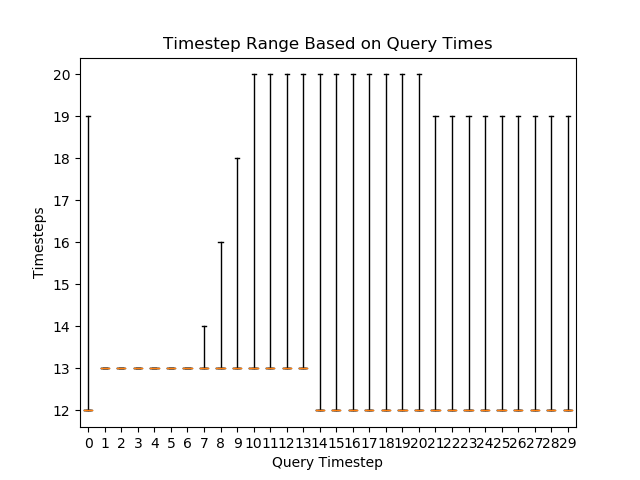
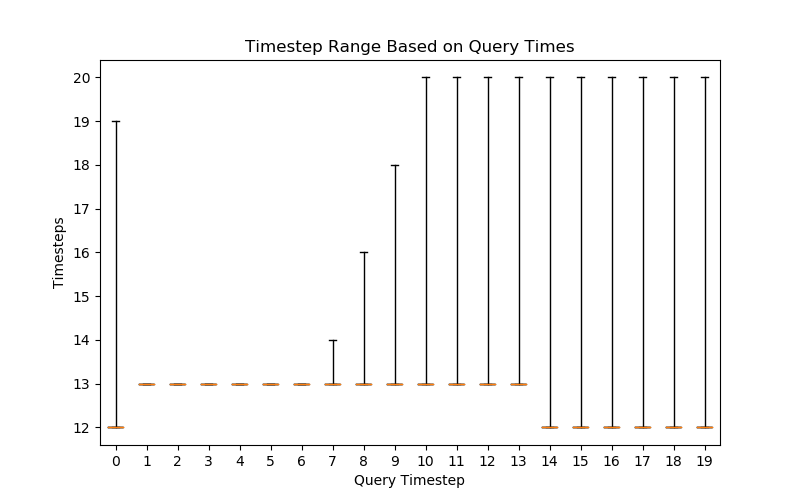
Started changing graphing code to support combining graphs

Changed region(s): [[0.0312, 0.0625, 0.9062, 1.0], [0.0938, 0.125, 0.125, 0.1875]]

diff --git a/experiment.py b/experiment.py
@@ -8,6 +8,7 @@ from itertools import permutations
 import matplotlib.pyplot as plt
 
 
+# Runs a single simulation
 def experiment(size, stn_pos, tools_pos, l_pos, a_pos, l_tp=None, l_path=[], communication_timesteps=[], debug=False):
     # DEBUG CODE
     def debug_output(timestep=None):
@@ -69,8 +70,45 @@ def experiment(size, stn_pos, tools_pos, l_pos, a_pos, l_tp=None, l_path=[], com
     return step_count - 1 # Not including last time step that agents are doing Action.WORK on station
 
 
+# Returns a permutation of all unique optimal paths from leader agent to target station
+def opt_path_perm(stn_pos, l_pos, l_station_order):
+    l_path = []
+    offset = stn_pos[l_station_order[0]] - l_pos
+
+    if offset.x >= 0:
+        l_path += [gd.Actions.RIGHT] * offset.x
+    else:
+        l_path += [gd.Actions.LEFT] * -offset.x
+    if offset.y >= 0:
+        l_path += [gd.Actions.UP] * offset.y
+    else:
+        l_path += [gd.Actions.DOWN] * -offset.y
+
+    return set(permutations(l_path))
+
+
+# Returns lists of timesteps to complete simulation for each query timestep
+def get_query_timesteps(size, stn_pos, tools_pos, l_pos, a_pos, l_tp, all_leader_paths, debug=False):
+    max_query = 1
+    query = 0
+
+    query_timesteps = []
+    while query <= max_query:
+        timesteps = []
+        for path in all_leader_paths:
+            steps = experiment(size, stn_pos, tools_pos, l_pos, a_pos, l_tp, list(path), [query], debug=debug)
+            timesteps.append(steps)
+
+        query_timesteps.append(timesteps)
+
+        if query == 0:
+            max_query = max(timesteps)
+        query += 1
+
+    return query_timesteps
+
+
 size = 10
-stn_pos = [Point2D(7,3), Point2D(3,8), Point2D(7,8)]
 tools_pos = [Point2D(2,3)] # tools_pos needs to be an array but only one tool box is supported so far
 
 l_pos = Point2D(5, 0)
@@ -82,37 +120,21 @@ a_pos = Point2D(4, 0)
 
 communication_timesteps = [] # list of time steps that communication occurs
 
-# Automatically obtains a path from leader agent to first station
-l_path = []
-offset = stn_pos[l_station_order[0]] - l_pos
-if offset.x >= 0:
-    l_path += [gd.Actions.RIGHT] * offset.x
-else:
-    l_path += [gd.Actions.LEFT] * -offset.x
-if offset.y >= 0:
-    l_path += [gd.Actions.UP] * offset.y
-else:
-    l_path += [gd.Actions.DOWN] * -offset.y
-# A permutation of unique optimal paths from leader agent to first station
-all_leader_paths = set(permutations(l_path))
+# print('Number of path permutations:', len(all_leader_paths))
+# print('Starting experiment...')
 
-print('Number of path permutations:', len(all_leader_paths))
-print('Starting experiment...')
+stn_pos = [Point2D(7,3), Point2D(3,8), Point2D(7,8)] # target station needs to be last listed if you want worst case scenario with wrong inferencing
+all_leader_paths = opt_path_perm(stn_pos, l_pos, l_station_order)
+query_timesteps1 = get_query_timesteps(size, stn_pos, tools_pos, l_pos, a_pos, l_tp, all_leader_paths)
 
-max_query = 30
-query_timesteps = []
-for com_ts in range(max_query):
-    timesteps = []
-    for path in all_leader_paths:
-        steps = experiment(size, stn_pos, tools_pos, l_pos, a_pos, l_tp, list(path), [com_ts])
-        timesteps.append(steps)
+stn_pos = [Point2D(3,8), Point2D(7,8), Point2D(7,3)]
+all_leader_paths = opt_path_perm(stn_pos, l_pos, l_station_order)
+query_timesteps2 = get_query_timesteps(size, stn_pos, tools_pos, l_pos, a_pos, l_tp, all_leader_paths, True)
 
-    query_timesteps.append(timesteps)
+fig, ax = plt.subplots(figsize=(8, 5))
 
-
-fig, ax = plt.subplots()
-
-ax.boxplot(query_timesteps, positions=range(max_query), whis='range')
+ax.boxplot(query_timesteps1, positions=range(len(query_timesteps1)), whis='range')
+ax.boxplot(query_timesteps2, positions=range(len(query_timesteps2)), whis='range')
 ax.set_title('Timestep Range Based on Query Times')
 ax.set_xlabel('Query Timestep')
 ax.set_ylabel('Timesteps')

diff --git a/src/global_defs.py b/src/global_defs.py
@@ -28,7 +28,7 @@ logger.addHandler(ch)
 
 DEBUG = False
 
-MAX_ITERS = 100
+MAX_ITERS = 50
 
 # These parameters need to be consistent with init parameters of environment
 GRID_SIZE = 10
